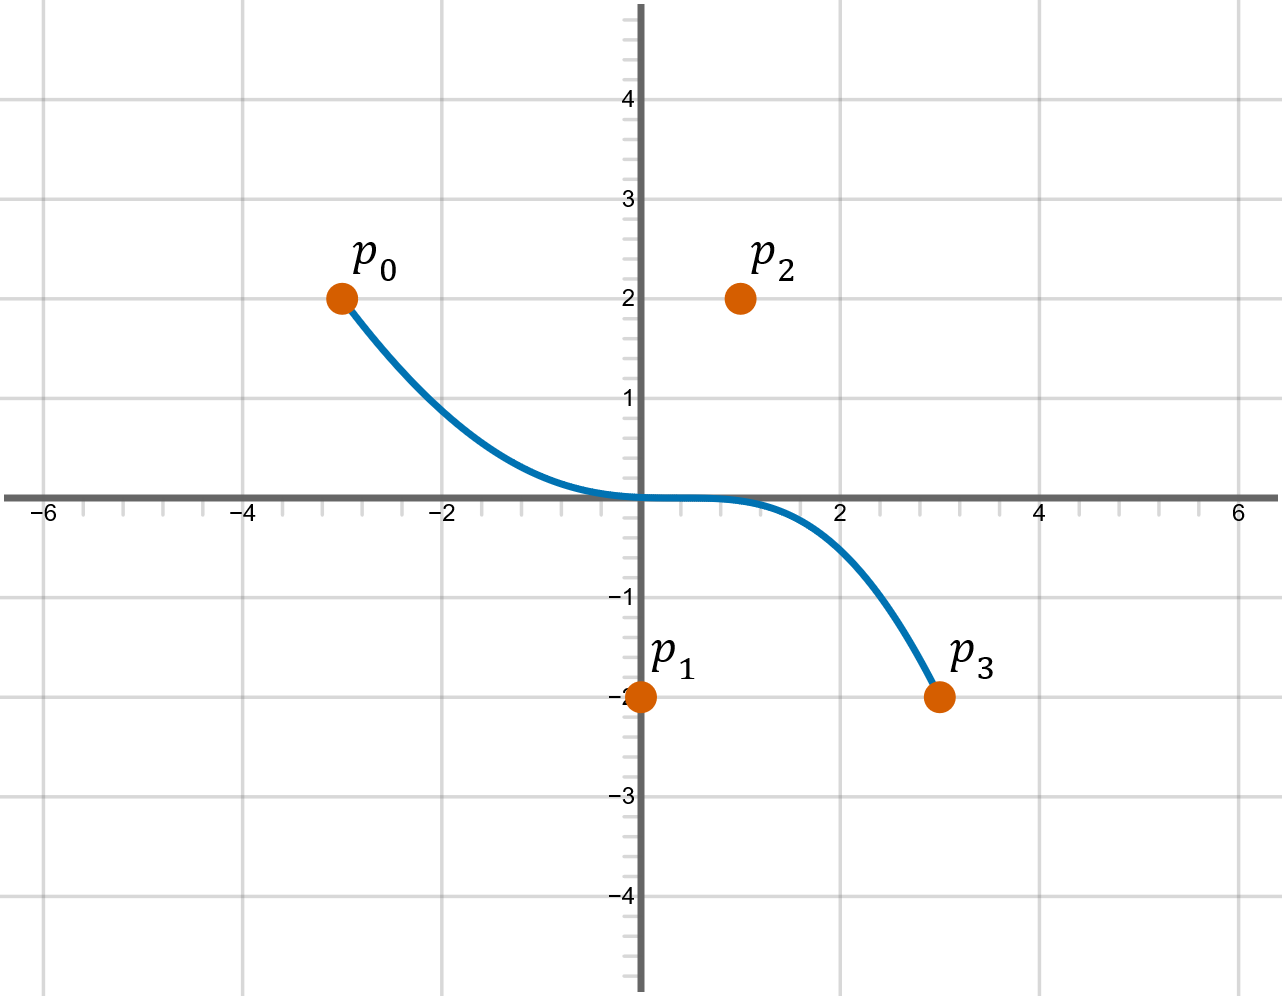
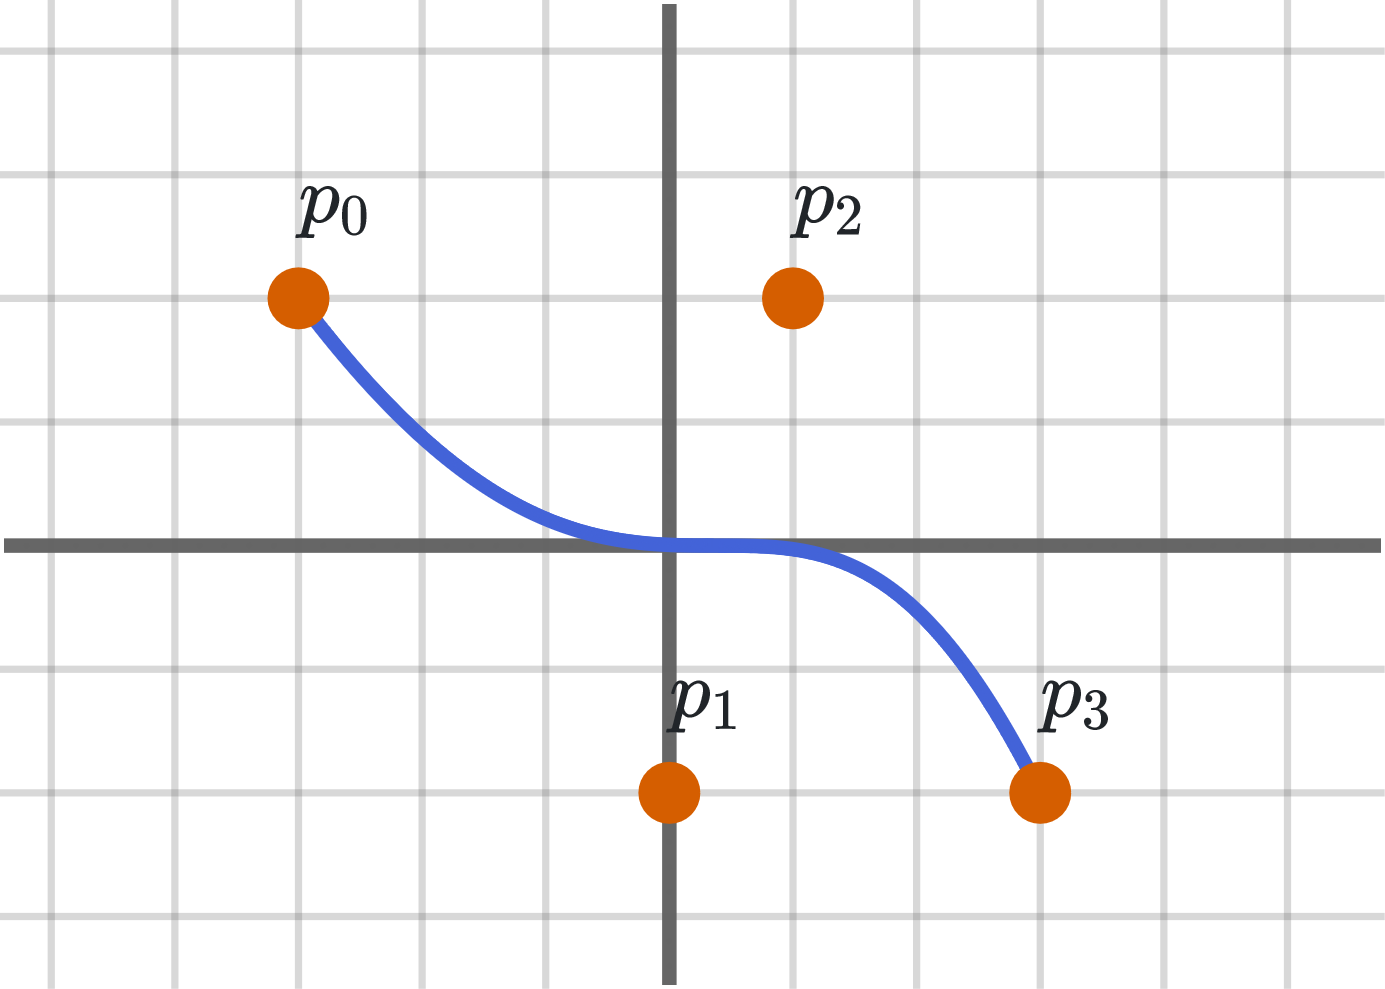
stuff

Changed region(s): [[0.0, 0.0, 1.0, 1.0]]

diff --git a/src/graphs/bezier/DecasteljauGraph2.tsx b/src/graphs/bezier/DecasteljauGraph2.tsx
@@ -97,7 +97,7 @@ class DecasteljauGraph extends BaseBezierCurveGraph<any, DecasteljauGraphStates>
                 },
                 0,
                 () => 1
-            ], {...CurveStyles.default, strokeColor: Color.E}
+            ], {...CurveStyles.default, strokeColor: Color.E, layer: 2}
         );
         this.board.create('curve',
             [(t: number) => {
@@ -108,7 +108,7 @@ class DecasteljauGraph extends BaseBezierCurveGraph<any, DecasteljauGraphStates>
                 },
                 0,
                 () => 1
-            ], {...CurveStyles.default, strokeColor: Color.G}
+            ], {...CurveStyles.default, strokeColor: Color.G, layer: 2}
         );
 
         const drawingPoint = this.board?.create('point', [() => this.getFirstJsxCurve().getCurve().calculatePointAtT(this.state.t).X(), () => this.getFirstJsxCurve().getCurve().calculatePointAtT(this.state.t).Y()], {

diff --git a/src/graphs/context/VisibilityContext.ts b/src/graphs/context/VisibilityContext.ts
@@ -2,12 +2,14 @@ const dPointVisibility = true
 const dTickNumbersVisibility = true
 const dTicksVisibility = true
 const dAxisVisibility = true
+const dMinorVisibility = true
 
 class VisibilityContextSingleton {
     pointVisibility = dPointVisibility
     tickNumbersVisibility = dTickNumbersVisibility
     ticksVisibility = dTicksVisibility
     axisVisibility = dAxisVisibility;
+    minorVisibility = dMinorVisibility;
 
     setPointVisibility(visible: boolean) {
         this.pointVisibility = visible
@@ -45,6 +47,13 @@ class VisibilityContextSingleton {
         this.axisVisibility = visible
     }
 
+    minorVisible() {
+        return this.minorVisibility
+    }
+
+    setMinorVisible(visible: boolean) {
+        this.minorVisibility = visible
+    }
 }
 
 export const VisibilityContext = new VisibilityContextSingleton()

diff --git a/src/graphs/base/BaseGraph.tsx b/src/graphs/base/BaseGraph.tsx
@@ -19,6 +19,7 @@ import {SaveImage} from "./SaveImage";
 import {ShowTicks} from "./ShowTicks";
 import {VisibilityContext} from "../context/VisibilityContext";
 import {ShowTicksNumbers} from "./ShowTicksNumbers";
+import {ShowMinorTicks} from "./ShowMinorTicks";
 
 
 function Help() {
@@ -189,6 +190,7 @@ abstract class BaseGraph<P, S extends BaseGraphState> extends Component<P, S> {
             <SaveImage saveAsSVG={name => this.saveAsSVG(name)} saveAsPNG={name => this.saveAsPNG(name)}/>,
             <ShowAxis board={() => this.board}></ShowAxis>,
             <ShowTicks board={() => this.board}></ShowTicks>,
+            <ShowMinorTicks board={() => this.board}></ShowMinorTicks>,
             <ShowTicksNumbers board={() => this.board}></ShowTicksNumbers>,
             <SizeRange board={() => this.board}/>
         ]

diff --git a/src/graphs/bezier/AffineTransformsBezierCurveGraph.tsx b/src/graphs/bezier/AffineTransformsBezierCurveGraph.tsx
@@ -38,7 +38,7 @@ export default class AffineTransformBezierCurveGraph extends BaseBezierCurveGrap
                 <Button onClick={() => this.moveFor(0.5, 0)}>⇒</Button></div>,
             <div><Button onClick={() => this.moveFor(0, 0.5)}>⇑</Button>
                 <Button onClick={() => this.moveFor(0, -0.5)}>⇓</Button></div>,
-            <div><Button onClick={() => this.rotate(-0.10 * Math.PI)}>↻</Button>
+            <div><Button onClick={() => this.rotate(Math.PI / 2)}>↻</Button>
                 <Button onClick={() => this.rotate(0.10 * Math.PI)}>↺</Button></div>,
             <div><Button onClick={() => this.flip(true, false)}>Zrcali Y</Button>
                 <Button onClick={() => this.flip(false, true)}>Zrcali X</Button></div>])

diff --git a/src/graphs/base/ShowMinorTicks.tsx b/src/graphs/base/ShowMinorTicks.tsx
@@ -1,0 +1,13 @@
+import {Board} from "jsxgraph";
+import React from "react";
+import {VisibilityContext} from "../context/VisibilityContext";
+import {OnOffSwitch} from "../../inputs/OnOffSwitch";
+
+export function ShowMinorTicks(props: { board: () => Board }) {
+    return <OnOffSwitch
+        initialState={VisibilityContext.axisVisibility}
+        onChange={(checked) => {
+            VisibilityContext.setMinorVisible(checked)
+            props.board().fullUpdate()
+        }} label={"Črtice"}/>
+}

diff --git a/src/bezeg/impl/curve/point-controlled-curve-impl.ts b/src/bezeg/impl/curve/point-controlled-curve-impl.ts
@@ -45,7 +45,7 @@ export abstract class PointControlledCurveImpl implements PointControlledCurve {
      */
     rotate(theta: number) {
         const rotationMatrix = [[Math.cos(theta), -Math.sin(theta)], [Math.sin(theta), Math.cos(theta)]]
-        this.affineTransform(rotationMatrix)
+        this.affineTransform(rotationMatrix, [0, 0], [0, 0])
     }
 
     getBoundingBox() {

diff --git a/src/graphs/styles/AxisStyles.ts b/src/graphs/styles/AxisStyles.ts
@@ -12,7 +12,7 @@ const tick: TicksOptions = {
     // @ts-ignore
     // majorHeight: () => Contexts.majorHeight,
     // @ts-ignore
-    minorHeight: () => SizeContext.minorHeight,
+    minorHeight: () => SizeContext.minorHeight * VisibilityContext.minorVisible(),
     label: {
         // @ts-ignore
         fontSize: () => SizeContext.fontSize * 0.6,
